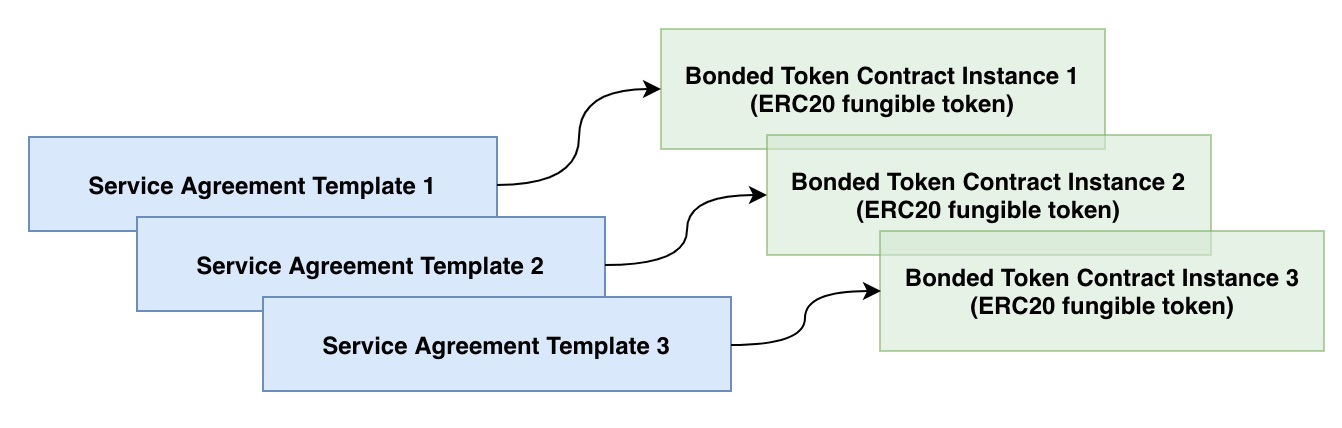
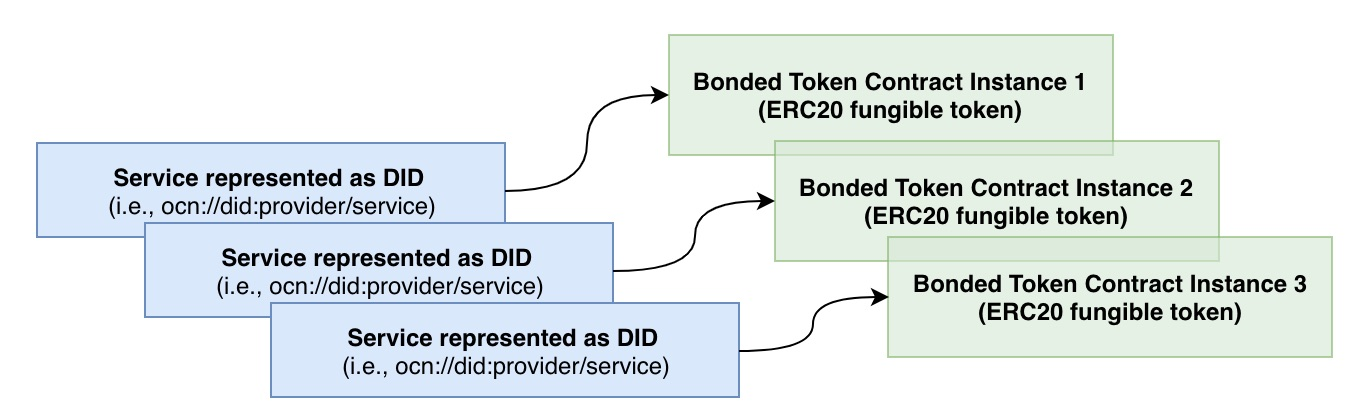
update according to discussion with trent and dimi

Changed region(s): [[0.0, 0.0619, 1.0, 0.9595], [0.3666, 0.3714, 0.4277, 0.4643], [0.4277, 0.3095, 0.4583, 0.3405]]

diff --git a/doc/refactoring_design.md b/doc/refactoring_design.md
@@ -19,7 +19,7 @@ From the top-level point of view, there are total 9 moduels as shown in the belo
 * **Governance**: it governs the available assets and services in Ocean network. For example, it whitelists new service agreement templates through TCR & Voting. 
 * **Tribe**: it controls the registry of membership for each service agreement template; defines TCR based registries for permission, which has whitelisted members who can provide or consume the service. Tribe is part of Governance module.
 * **Dispute Resolution**: resolves the disputes between consumer and provider through voting or TCR. 
-* **Block Reward**: Ocean network will periodically release block reward (i.e., new minted ERC20 Ocean tokens) to reward the providers of data commons. Note provider of data commons must be randomly selected to fulfill the service requests so that they have the equal probability to receive block rewards.
+* **network reward**: Ocean network will periodically release network reward (i.e., new minted ERC20 Ocean tokens) to reward the providers of data commons. Note provider of data commons must be randomly selected to fulfill the service requests so that they have the equal probability to receive network rewards.
 * **Access Control**: it is the controller contract which grant access to actors after depended conditions are fulfilled. The access token can be delivered in two approaches: secret store and OEP10. 
 * **Payment**: it handles all payment processing, including lock payment, release payment and refund payment. 
 
@@ -36,7 +36,7 @@ The same diagram can be found in [research slides](https://docs.google.com/prese
 	* **hash condition**: it provides the proof of hash to prove the secret was received. For example, the hash of votes in the commit stage are used to verify the voters indeed submit the same votes in the reveal stage.
 	* **signature condition**: it verifies the signature to prove the ownership of private key for a public key. For example, service agreement needs the signature to verify the service request is signed by the consumer.
 	* **threshold condition**: it verifies that the percentage of M-out-of-N is achieved such as multi-signature and public voting. For example, 50% of voters need to support the application in order to get it whitelisted. Similarly, M-out-of-N nodes in Secret Store must be available to decrypt the secret token.
-	* **ethereum state condition**: it queries the state of ethereum ledger to prove certain condition. For example, block reward needs to query the status of service agreement and only reward providers of *fulfilled* service agreements.
+	* **ethereum state condition**: it queries the state of ethereum ledger to prove certain condition. For example, network reward needs to query the status of service agreement and only reward providers of *fulfilled* service agreements.
 
 * **Reward**:
 	* **escrow account**: it holds the payment funds from consumer and only releases the payment to the provider when service agreement has been delivered.
@@ -52,7 +52,7 @@ TCR | hash, signature, threshold, state conditions | | Voting |
 Tribe | hash, signature, threshold, state conditions | | TCR |
 Governance | hash, signature, threshold, state conditions | | TCR |
 Dispute Resolution | hash, signature, threshold, state conditions | | Voting, TCR |
-Block Reward | state condition | network reward | Ocean Token |
+network reward | state condition | network reward | Ocean Token |
 Secret Store | signature, threshold, state conditions | | |
 Payment | state condition | escrow account | Ocean token |
 Exchange | | | Ocean Token |
@@ -75,9 +75,10 @@ Ocean Token is the native and fungible tokens in Ocean network, which complies w
 
 Its total supply of Ocean Token is 1.4 billion.
 
-45% of supply is reserved for block rewards, which will be minted according to schedule below:
+45% of supply is reserved for network rewards, which will be minted according to schedule below:
 <img src="img/refactoring/schedule.jpg" width="500" />
 
+Note that the implementation should use block number rather than block time stamp to mint the network reward tokens.
 
 #### 2.1.2 Sample Code
 
@@ -94,38 +95,48 @@ uint256 public constant TOTAL_SUPPLY = 1400000000 * 10 ** 18;    // OceanToken t
 // transfer tokens 
 function transfer(address _to, uint256 _value) public returns (bool);
 
-// mint new Ocean tokens and send tokens to block reward contract 
+// mint new Ocean tokens and send tokens to network reward contract 
 function mintTokens() public returns (bool success);
 ```
 
 #### 2.1.3 Task & Issue
 
-- [ ] mint new tokens as block rewards according to the releasing schedule;
-- [ ] transfer minted new tokens to block reward pool.
+- [ ] mint new tokens as network rewards according to the releasing schedule;
+- [ ] transfer minted new tokens to network reward pool.
 
 ----
 
-### 2.2 Block Reward
+### 2.2 network reward
 
 #### 2.2.1 Definition
 
-Block rewards are newly minted Ocean tokens which reward providers of data commons. 
+network rewards are newly minted Ocean tokens which will be rewarded to providers who:  
+1. fulfill the SA of data commons;  
+2. stake on the data commons. 
 
 <img src="img/refactoring/blockreward.jpg" width="1000" />
 
 **Key Points**:
 
-* Block reward Ocean tokens will be minted and deposited into a reward pool;
-* In the same block interval, Ocean network randomly select a provider to serve the service agreement of data commons. Therefore, all providers have the equal probability to receive the block rewards.
-* When the service agreement is fulfilled and verified, provider receive a `lottery ticket` to win the partial block rewards;
-* Stakeholders of data commons in the same block interval receive a `lottery ticket` to win the partial block rewards.
-* In the end of current block interval, Ocean network randomly choose a winner from the providers and a winner from the stakeholders who hold `lottery tickets`.
-* This chosen provider and stakeholder share all tokens in the reward pool (the reward percentage is pre-defined, such as provider takes 80% block rewards, while stakeholder takes 20%);
-* The procedure will repeat for each block interval; if there is no winner, Ocean tokens in the reward pool will accumulate over time until a winner claims the reward.
+* How to choose winner of rewards?
+	* Network reward Ocean tokens will be minted and deposited into a reward pool;
+	* Providers who *fulfill the service agreements of data commons* **and** *put in stake* will receive `lottery tickets`, where the number of tickets is determined by fulfilled conditions. 
+	* The formula that calculates number of lottery tickets is a function of *(1) fulfilled conditions*, *(2) stake*, **and** *(3) size of datasets* (e.g., 1 lottery ticket per MB).
+	* When the amount of tokens in the reward pool exceeds certain threshold, Ocean network will randomly choose a winner from the providers who have lottery tickets. The winning probability is proportional to the number of tickets.
+
+* Delay on network reward:
+	* Attackers may publish data commons that they don't have IP rights in order to earn network rewards. If network rewards can be immediately withdrawn,   there is no time for Ocean network to detect.
+	* The block rewards must be put on hold for a period of time (i.e., 30 days) before they can be withdrawn from Ocean network.
+
+	
+* Challenge on winner of network reward:
+	* 	When the network rewards are put on hold, anyone can challenge it (e.g., claim the infringement of copyrights) with stake. If they win the challenge, the challenger and verifier get the network rewards.
+
+The procedure is illustrated in the below diagram:
 
 <img src="img/refactoring/rewardLogic.jpg" width="1000" />
 
-The process for a service prodiver to receive block rewards in one block interval is below:
+Below diagram shows how to calculate the number of lottery tickets based on service conditions. The convertion table is for illustration purpose only. 
 
 <img src="img/refactoring/distributeBR.jpg" width="800" />
 
@@ -140,7 +151,7 @@ address[] candidates;
 // number of reward tokens in this block interval
 uint256 rewardPool;
 
-// randomly pick a provider to receive block reward
+// randomly pick a provider to receive network reward
 function sendBlockReward() public returns (bool success){
 	...
 	// Ocean token contract mints new tokens
@@ -150,7 +161,7 @@ function sendBlockReward() public returns (bool success){
 	uint256 random = keccak256(abi.encodePacked(...)) % n;
 	
 	// send tokens in rewardPool to a randomly chosen provider
-	transfer(candidates[random], rewardPool);
+	transfer(candidates[random], rewardPool * percentage);
 	...
 };
 ```
@@ -158,12 +169,11 @@ function sendBlockReward() public returns (bool success){
 #### 2.2.3 Task & Issue
 
 - [ ] retrieve proofs of fulfilled service agreements for data commons;
-- [ ] add providers of these proofs to the winner candidate list;
-- [ ] retrieve list of stakeholders for data commons;
-- [ ] random number generator to have uniform-distributed random numbers;
-- [ ] detect the end of current block interval;
-- [ ] trigger the minting of new block rewards in Token contract;
-- [ ] choose a random provider and a random stakeholder;
+- [ ] add providers of these proofs to the candidate list and calculate their number of `lottery ticket`;
+- [ ] retrieve list of stakeholders for data commons and calculate their number of `lottery ticket`;
+- [ ] detect the balance of reward pool exceeds certain threshold;
+- [ ] trigger the minting of new network rewards in Token contract;
+- [ ] choose a random provider and a random stakeholder according to their number of `lottery tickets`;
 - [ ] split the current reward pool into token rewards for chosen provider and stakeholder.
 
 ----
@@ -191,10 +201,13 @@ The key point is to split up the conditions from reward payment as:
 2. **support Tri-State: Unknown, True, False**
 <img src="img/refactoring/triState.jpg" width="800" />
 
-3. **New service agreement template must go through governance and TCR to be whitelisted**. 
+3. **Add current provider of data commons into network reward candidates and calculate number of lottery tickets if service agreement is fulfilled and verified.** 
+
+4. **New SA template for services shall go through governance and TCR to be whitelisted**. Note that *dataset may not go through TCR* in order to be published, because a global TCR for assets causes high onboarding friction and does not scale.
+
 <img src="img/refactoring/whitelistSAT.jpg" width="800" />
 
-4. **Add current provider of data commons into block reward candidates if service agreement is fulfilled and verified.**
+
 
 #### 2.3.2 Sample Code
 
@@ -224,15 +237,15 @@ function executeAgreement(bytes32 templateId, bytes signature, address consumer,
 // fulfill the service agreement (after all conditions are fulfilled)
 function fulfillAgreement(bytes32 serviceId) public noPendingFulfillments(serviceId) returns(bool){
 	...
-	// detect new block interval and distribute tokens in current block reward pool
+	// detect new block interval and distribute tokens in current network reward pool
 	if( find a new block interval) {
-		// distribute block reward tokens 
+		// distribute network reward tokens 
 		BlockReward. sendBlockReward();  
 		// reset the candidate list	
 		BlockReward.clearCandidateList()
 	}
 	...
-	// add current provider of data commons into candidate list of block reward 
+	// add current provider of data commons into candidate list of network reward 
 	BlockReward.addCandidate(address provider);
 	...
 };
@@ -251,8 +264,8 @@ function calculatePayment(bytes32 serviceId) public returns(bool);
 - [ ] when create new SA template, the template must go through TCR to get whitelisted;
 - [ ] add new SA template into Tribe and Curation registry;
 - [ ] add permission checking with Tribe registry;
-- [ ] when SA is fulfilled, check whether it is needed to distribute block reward. If not, add provider of data commons to the winner candidate list.
-- [ ] In the end of block interval, trigger the distribution of block rewards.
+- [ ] when SA is fulfilled, check whether it is needed to distribute network reward. If not, add provider of data commons to the winner candidate list.
+- [ ] In the end of block interval, trigger the distribution of network rewards.
 
 ----
 
@@ -278,7 +291,7 @@ function refundPayment(bytes32 serviceId, bytes32 assetId, uint256 price) public
 
 #### 2.4.3 Task & Issue
 
-- [ ] add function to distribute block rewards with pre-defined percentage parameters;
+- [ ] add function to distribute network rewards with pre-defined percentage parameters;
 - [ ] add function to verify the status of payments.
 
 
@@ -311,21 +324,21 @@ function grantAccess(bytes32 serviceId, bytes32 assetId) public returns (bool);
 
 ----
 
-### 2.6 Tribe
+### 2.6 Tribe or Group
 
 #### 2.6.1 Definition
 
-Each service agreement template has its corresponding `Tribe` including:
+Each service is represented by an unique DID and has three registries:
 
-* *open registry* that enables membership for this SA template;
-* *provider registry* includes members who can fulfill the instantiated service agreement;
-* *consumer registry* includes members who are eligible to consume the instantiated service agreement;
+* *open registry*: users have credentials in this registry are the members for this service and they can further become provider or consumer for this service;
+* *provider registry* users have credentials in this registry can fulfill the service agreement;
+* *consumer registry* users have credentials in this registry can consume the service agreement;
 
-<img src="img/refactoring/tribe.jpg" width="600" />
+<img src="img/refactoring/tribe.jpg" width="1000" />
 
 **How to add member into Provider registry?**
 
-* owner of service agreement template is a provider of the instantiated service agreement by default;
+* owner of service agreement template is a provider of the service agreement by default;
 * other members in the tribe shall be whitelisted through TCR in order to fulfill the service agreement.
 
 **How to add member into Consumer registry?**
@@ -380,7 +393,7 @@ function addConsumer(bytes32 template_Id, address consumer) public returns (bool
 
 #### 2.7.1 Definition
 
-Curation is required in Ocean to generate a ranked list of SA sorted from high quality to low. In the decentralized settings, curation could be done with staking mechanism & bonding curves.
+Curation is required in Ocean to generate a ranked list of services sorted from high quality to low. In the decentralized settings, curation could be done with staking mechanism & bonding curves.
 
 A bonding curves is a fixed curve that bonds reserved token (i.e., Ether or Ocean token) with a local ERC20 boned token for an associated SA:
 
@@ -388,9 +401,13 @@ A bonding curves is a fixed curve that bonds reserved token (i.e., Ether or Ocea
 
 The bonding curves determines the exchange ratio with an analytical formula, which models the price of bonded token as a function of its total supply. Usually price goes up when total supply increases, which indicates strong demand of bonded tokens.
 
-**(1) Curation for SA template**
+**(1) Curation of Serivces**
 
-* Each service agreement template has its own fixed bonding curve along with ERC20 bonded tokens;
+**Each service is represented by an unique DID** (e.g., `ocn://did:provider/service`). The process of publishing a serivce using DID is shown as below:
+
+<img src="img/refactoring/publishService.jpg" width="1000" />
+
+* Each service has its own fixed bonding curve along with ERC20 bonded tokens;
 * Whenever the ERC20 bonded token is minted or burnt, the fixed bonding curve is used to calculate the price of bonded tokens:
 	* calculates how many bonded tokens should be minted for a given amount of Ocean tokens;
 	* calculates how many Ocean tokens should be returned when a given amount of bonded tokens are burnt.
@@ -467,6 +484,10 @@ To resolve the dispute, there are two approaches:
 
 * **Voting based resolution**: it enables expert verification (or arbitration) with permissioned voting on the disputes. 
 * **TCR based resolution**: it enables community opinion since all community members can vote on the disputes, which will be resolved based on TCR results.
+
+Moreover, the dispute resolution is actually a threshold service condition (i.e., M out of N voters must approve to resolve the dispute), therefore, it can be formulated as a service condition with unified interface.
+
+ <img src="img/refactoring/disputeWrapper.jpg" width="600" />
 
 #### 2.8.2 Sample Code
 
@@ -629,7 +650,7 @@ It illustrates the interaction between contracts.
 * TCR
 * Curation
 * Tribe
-* Block Reward
+* network reward
 * Dispute Resolution
 * Voting
 * Ocean Token 
@@ -642,7 +663,7 @@ It illustrates the interaction between contracts.
 * TCR
 * Dispute Resolution
 * Access Control
-* Block Reward
+* network reward
 * Tribe
 * Curation
 * Service Agreement
@@ -737,7 +758,7 @@ regular: must to have for Tethys
 
 ### 5.4 Incentives
 
-1. Virtual Block Reward  
+1. Virtual network reward  
 	* simple treasure chest for holding the mineable tokens  
 	* periodical release of rewards (enables: simple reward)  
 	* *conversion of service condition to reward (enables: selected reward)*  
@@ -781,7 +802,7 @@ Let us take a look at the bonded token contract case:
 
 ### 6.2 Random Number Generator
 
-The random number generation is very important in Ocean, which is required in many places such as selecting winner of block rewards and etc.
+The random number generation is very important in Ocean, which is required in many places such as selecting winner of network rewards and etc.
 
 The most famous one is RANDAO as shown in the diagram below. It needs three stages and two interactions with users to generate a truly random number. 
 
@@ -795,4 +816,6 @@ In addition, decentralized Oraclize like **chainlink** can be explored.
 
 We need to carefully choose the approach to generate random number, because many projects had been hacked due to their designs of RNG and lose many tokens.
 
+### 6.3 Pump and Dump Attack
 
+It is a typical attack to any market maker, where attacker buys huge amount of tokens with very low price and fraudulently pump up the price in order to dump his holdings for profits.
